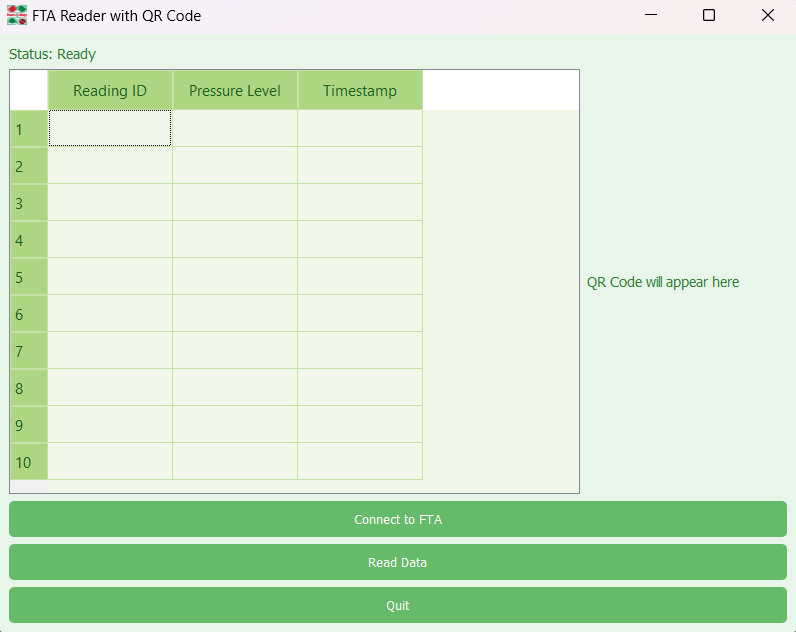
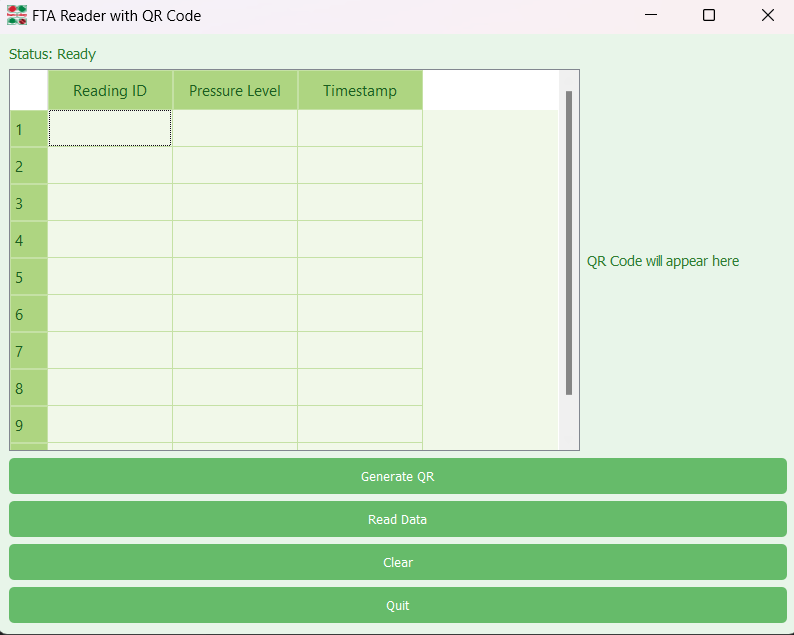
Added changed readme, image and fta_reader.py

diff --git a/src/fta_reader.py b/src/fta_reader.py
@@ -19,7 +19,7 @@ class FTAReader(QMainWindow):
     def __init__(self):
         super().__init__()
         self.setWindowTitle("FTA Reader with QR Code")
-        self.setGeometry(100, 100, 800, 600)  # Ensure the window is properly sized
+        self.setGeometry(100, 100, 800, 600)
 
         # Set window icon
         self.setWindowIcon(QIcon("assets/logo.png"))
@@ -27,8 +27,9 @@ class FTAReader(QMainWindow):
         # UI Components
         self.status_label = QLabel("Status: Ready")
         self.table = QTableWidget(10, 3)  # 3 columns for reading_id, pressure_level, timestamp
-        self.connect_button = QPushButton("Connect to FTA")
+        self.generate_qr_button = QPushButton("Generate QR")
         self.read_button = QPushButton("Read Data")
+        self.clear_button = QPushButton("Clear")
         self.quit_button = QPushButton("Quit")
         self.qr_code_label = QLabel("QR Code will appear here")
         self.qr_code_label.setScaledContents(True)
@@ -53,8 +54,9 @@ class FTAReader(QMainWindow):
 
         # Buttons Layout (stacked vertically)
         button_layout = QVBoxLayout()
-        button_layout.addWidget(self.connect_button)
+        button_layout.addWidget(self.generate_qr_button)
         button_layout.addWidget(self.read_button)
+        button_layout.addWidget(self.clear_button)
         button_layout.addWidget(self.quit_button)
         main_layout.addLayout(button_layout)
 
@@ -67,8 +69,9 @@ class FTAReader(QMainWindow):
         self.apply_green_theme()
 
         # Button Connections
-        self.connect_button.clicked.connect(self.do_connect)
+        self.generate_qr_button.clicked.connect(self.generate_qr_from_table)
         self.read_button.clicked.connect(self.read_data)
+        self.clear_button.clicked.connect(self.clear_data)
         self.quit_button.clicked.connect(self.close)
 
     def apply_green_theme(self):
@@ -104,9 +107,6 @@ class FTAReader(QMainWindow):
         """
         self.setStyleSheet(green_style)
 
-    def do_connect(self):
-        self.status_label.setText("Status: Connected")
-
     def read_data(self):
         options = QFileDialog.Options()
         file_path, _ = QFileDialog.getOpenFileName(self, "Open CSV File", "", "CSV Files (*.csv)", options=options)
@@ -120,7 +120,8 @@ class FTAReader(QMainWindow):
                 self.status_label.setText(f"Error: {str(e)}")
 
     def populate_table(self, data):
-        self.table.setRowCount(len(data))
+        row_count = len(data)
+        self.table.setRowCount(row_count)
         self.table.setColumnCount(3)
         self.table.setHorizontalHeaderLabels(["Reading ID", "Pressure Level", "Timestamp"])
 
@@ -128,6 +129,32 @@ class FTAReader(QMainWindow):
             self.table.setItem(row_idx, 0, QTableWidgetItem(str(row["reading_id"])))
             self.table.setItem(row_idx, 1, QTableWidgetItem(str(row["pressure_level"])))
             self.table.setItem(row_idx, 2, QTableWidgetItem(str(row["timestamp"])))
+
+        # Resize table to fit content dynamically
+        self.table.resizeColumnsToContents()
+        self.table.resizeRowsToContents()
+
+    def generate_qr_from_table(self):
+        rows = self.table.rowCount()
+        cols = self.table.columnCount()
+
+        # Collect data from the table
+        table_data = []
+        for row in range(rows):
+            row_data = []
+            for col in range(cols):
+                item = self.table.item(row, col)
+                if item is not None:
+                    row_data.append(item.text())
+                else:
+                    row_data.append("")  # Fill empty cells with empty strings
+            if any(row_data):  # Ignore completely empty rows
+                table_data.append(row_data)
+
+        # Convert to DataFrame
+        data = pd.DataFrame(table_data, columns=["reading_id", "pressure_level", "timestamp"])
+        self.generate_qr_code(data)
+        self.status_label.setText("Status: QR Code Generated from Table Data")
 
     def generate_qr_code(self, data):
         csv_string = data.to_csv(index=False)
@@ -142,6 +169,14 @@ class FTAReader(QMainWindow):
         pixmap = QPixmap(temp_path)
         self.qr_code_label.setPixmap(pixmap)
         os.remove(temp_path)
+
+    def clear_data(self):
+        # Clear table data
+        self.table.clearContents()
+        self.table.setRowCount(10)
+        self.qr_code_label.clear()
+        self.qr_code_label.setText("QR Code will appear here")
+        self.status_label.setText("Status: Cleared")
 
 # Application Entry Point
 if __name__ == "__main__":

diff --git a/README.md b/README.md
@@ -49,8 +49,9 @@ Application GUI
 Key Elements:
 Table: Displays the contents of the loaded CSV file.
 Buttons:
-Connect to FTA: Placeholder functionality for future connectivity.
+Generate QR: From user input data.
 Read Data: Loads CSV data into the table and generates a QR code.
+Clear: Clear table and QR code
 Quit: Closes the application.
 QR Code Display: Displays the QR code generated from the CSV data.
 Status Bar: Shows the current status (e.g., "Ready", "Data Loaded").
